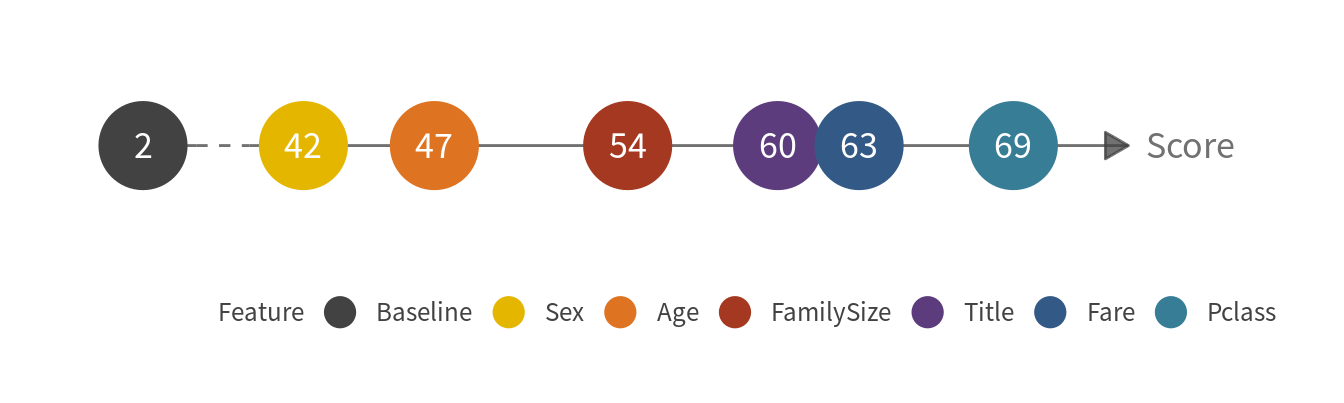
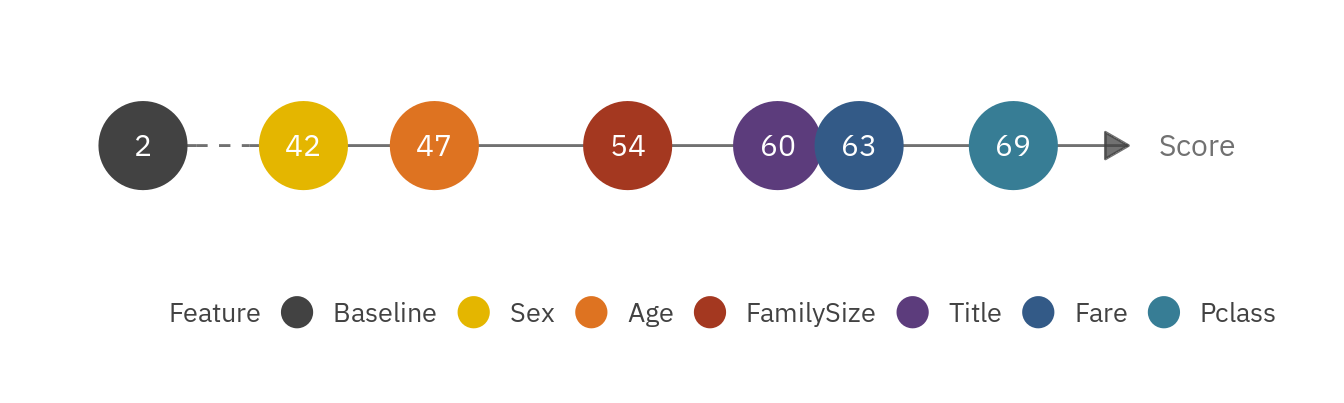
Edit font type

diff --git a/index.html b/index.html
@@ -359,7 +359,7 @@ income_plot &lt;-  ggplot(income_set, aes(x=SurvivalRate,
                          y = 0.02,
                          family = def_font,
                          color = ltxt_color,
-                         size = 5,
+                         size = 4.5,
                          hjust = 1) +
                # Y Axis
                 theme(
@@ -538,7 +538,7 @@ age_plot &lt;- ggplot(age_pdata, aes(x=AgeMin,
                             aes(x = AgeMin + 8.5, label = paste(AgeMin, &quot;Years Old&quot;)),
                             y = max(age_pdata$SurviveL),
                             color = ltxt_color,
-                            size = 5,
+                            size = 4,
                             family = def_font)
   
 age_plot</code></pre>
@@ -625,7 +625,7 @@ company_plot &lt;- ggplot(company_stack, aes(x= Size, y= Value)) +
                 geom_text(data=unique(company_stack %&gt;% select(Size, SurvivalRate)),
                           aes(x=Size, y=SurvivalRate+0.03, label=paste0(round(SurvivalRate*100),&quot;%&quot;)),
                           color=txt_color,
-                          size=5,
+                          size=4,
                           family = def_font)
   
 company_plot </code></pre>
@@ -777,7 +777,7 @@ cabinNumber_plot &lt;- ggplot(cabinNumber_set, aes(x = SurvivalRate,
                               y = 0.02,
                               family = def_font,
                               color = ltxt_color,
-                              size = 5,
+                              size = 4.5,
                               hjust = 1) +
                     theme(
                       # Y-Axis
@@ -851,8 +851,8 @@ pwalk(
 )
 
 map</code></pre>
-<div id="htmlwidget-c16769c1e4ed0e5b6b1a" style="width:100%;height:268.8px;" class="leaflet html-widget"></div>
-<script type="application/json" data-for="htmlwidget-c16769c1e4ed0e5b6b1a">{"x":{"options":{"crs":{"crsClass":"L.CRS.EPSG3857","code":null,"proj4def":null,"projectedBounds":null,"options":{}}},"calls":[{"method":"addProviderTiles","args":["CartoDB.Positron",null,null,{"errorTileUrl":"","noWrap":false,"zIndex":null,"unloadInvisibleTiles":null,"updateWhenIdle":null,"detectRetina":false,"reuseTiles":false}]},{"method":"addAwesomeMarkers","args":[41.7666636,-50.2333324,{"icon":"ship","markerColor":"gray","iconColor":"#FFFFFF","spin":false,"squareMarker":false,"iconRotate":0,"font":"monospace","prefix":"fa"},null,null,{"clickable":true,"draggable":false,"keyboard":true,"title":"","alt":"","zIndexOffset":0,"opacity":1,"riseOnHover":false,"riseOffset":250},"Titanic Crash Site",null,null,null,null,null,null]},{"method":"addCircleMarkers","args":[49.645009,-1.62444,10,null,null,{"lineCap":null,"lineJoin":null,"clickable":true,"pointerEvents":null,"className":"","stroke":true,"color":"#89942F","weight":5,"opacity":0.8,"fill":true,"fillColor":"#89942F","fillOpacity":0.5,"dashArray":null},null,null,"Cherbough<br>Survival Likelihood: 55%",null,null,null,null]},{"method":"addCircleMarkers","args":[51.851,-8.2967,10,null,null,{"lineCap":null,"lineJoin":null,"clickable":true,"pointerEvents":null,"className":"","stroke":true,"color":"#A43820","weight":5,"opacity":0.8,"fill":true,"fillColor":"#A43820","fillOpacity":0.5,"dashArray":null},null,null,"Queenstown<br>Survival Likelihood: 39%",null,null,null,null]},{"method":"addCircleMarkers","args":[50.9038684,-1.4176118,15,null,null,{"lineCap":null,"lineJoin":null,"clickable":true,"pointerEvents":null,"className":"","stroke":true,"color":"#A43820","weight":5,"opacity":0.8,"fill":true,"fillColor":"#A43820","fillOpacity":0.5,"dashArray":null},null,null,"Southampton<br>Survival Likelihood: 34%",null,null,null,null]}],"limits":{"lat":[41.7666636,51.851],"lng":[-50.2333324,-1.4176118]}},"evals":[],"jsHooks":[]}</script>
+<div id="htmlwidget-79cacfd01ae976ea9a9f" style="width:100%;height:268.8px;" class="leaflet html-widget"></div>
+<script type="application/json" data-for="htmlwidget-79cacfd01ae976ea9a9f">{"x":{"options":{"crs":{"crsClass":"L.CRS.EPSG3857","code":null,"proj4def":null,"projectedBounds":null,"options":{}}},"calls":[{"method":"addProviderTiles","args":["CartoDB.Positron",null,null,{"errorTileUrl":"","noWrap":false,"zIndex":null,"unloadInvisibleTiles":null,"updateWhenIdle":null,"detectRetina":false,"reuseTiles":false}]},{"method":"addAwesomeMarkers","args":[41.7666636,-50.2333324,{"icon":"ship","markerColor":"gray","iconColor":"#FFFFFF","spin":false,"squareMarker":false,"iconRotate":0,"font":"monospace","prefix":"fa"},null,null,{"clickable":true,"draggable":false,"keyboard":true,"title":"","alt":"","zIndexOffset":0,"opacity":1,"riseOnHover":false,"riseOffset":250},"Titanic Crash Site",null,null,null,null,null,null]},{"method":"addCircleMarkers","args":[49.645009,-1.62444,10,null,null,{"lineCap":null,"lineJoin":null,"clickable":true,"pointerEvents":null,"className":"","stroke":true,"color":"#89942F","weight":5,"opacity":0.8,"fill":true,"fillColor":"#89942F","fillOpacity":0.5,"dashArray":null},null,null,"Cherbough<br>Survival Likelihood: 55%",null,null,null,null]},{"method":"addCircleMarkers","args":[51.851,-8.2967,10,null,null,{"lineCap":null,"lineJoin":null,"clickable":true,"pointerEvents":null,"className":"","stroke":true,"color":"#A43820","weight":5,"opacity":0.8,"fill":true,"fillColor":"#A43820","fillOpacity":0.5,"dashArray":null},null,null,"Queenstown<br>Survival Likelihood: 39%",null,null,null,null]},{"method":"addCircleMarkers","args":[50.9038684,-1.4176118,15,null,null,{"lineCap":null,"lineJoin":null,"clickable":true,"pointerEvents":null,"className":"","stroke":true,"color":"#A43820","weight":5,"opacity":0.8,"fill":true,"fillColor":"#A43820","fillOpacity":0.5,"dashArray":null},null,null,"Southampton<br>Survival Likelihood: 34%",null,null,null,null]}],"limits":{"lat":[41.7666636,51.851],"lng":[-50.2333324,-1.4176118]}},"evals":[],"jsHooks":[]}</script>
 <p><br> The map above indicates that those who embarked at Cherbough are more likely to survive. This is a puzzling observation as where the passenger embarks should not have an impact of what is happening on the Titanic.</p>
 <pre class="r"><code># Assessing the correlation between Embarkation and Passenger Class
 
@@ -896,7 +896,7 @@ embark_pclass_plot &lt;- ggplot(embark_pclass, aes(x=as.factor(Embarked),
                                     y = PctEmbarked - 0.05),
                                 data = embark_pclass %&gt;% filter(Pclass == 1),
                                 color = bg_color,
-                                family = def_font, size = 5)
+                                family = def_font, size = 4)
 
 embark_pclass_plot</code></pre>
 <p><img src="index_files/figure-html/unnamed-chunk-13-1.png" width="672" style="display: block; margin: auto;" /></p>
@@ -1294,7 +1294,7 @@ z_plot &lt;- ggplot(data = z_scores, aes(x = sapply(z_scores$Zscore, function (x
                     y = 0),
                     family = def_font,
                     color = ltxt_color,
-                    size = 5,
+                    size = 4,
                     hjust = 1) +
           theme(
             # Y-Axis
@@ -1307,7 +1307,7 @@ z_plot &lt;- ggplot(data = z_scores, aes(x = sapply(z_scores$Zscore, function (x
           geom_text(aes(label=paste0(round(Zscore,0))),
                     family = def_font,
                     color = &quot;#FFFFFF&quot;,
-                    size = 5,
+                    size = 4,
                     hjust = 0.5)
   
 z_plot</code></pre>

diff --git a/README.md b/README.md
@@ -210,7 +210,7 @@ income_plot <-  ggplot(income_set, aes(x=SurvivalRate,
                          y = 0.02,
                          family = def_font,
                          color = ltxt_color,
-                         size = 5,
+                         size = 4.5,
                          hjust = 1) +
                # Y Axis
                 theme(
@@ -435,7 +435,7 @@ age_plot <- ggplot(age_pdata, aes(x=AgeMin,
                             aes(x = AgeMin + 8.5, label = paste(AgeMin, "Years Old")),
                             y = max(age_pdata$SurviveL),
                             color = ltxt_color,
-                            size = 5,
+                            size = 4,
                             family = def_font)
   
 age_plot
@@ -543,7 +543,7 @@ company_plot <- ggplot(company_stack, aes(x= Size, y= Value)) +
                 geom_text(data=unique(company_stack %>% select(Size, SurvivalRate)),
                           aes(x=Size, y=SurvivalRate+0.03, label=paste0(round(SurvivalRate*100),"%")),
                           color=txt_color,
-                          size=5,
+                          size=4,
                           family = def_font)
   
 company_plot 
@@ -746,7 +746,7 @@ cabinNumber_plot <- ggplot(cabinNumber_set, aes(x = SurvivalRate,
                               y = 0.02,
                               family = def_font,
                               color = ltxt_color,
-                              size = 5,
+                              size = 4.5,
                               hjust = 1) +
                     theme(
                       # Y-Axis
@@ -836,11 +836,11 @@ map
 
 <!--html_preserve-->
 
-<div id="htmlwidget-f0284abbf11768ab3d70" class="leaflet html-widget" style="width:100%;height:268.8px;">
+<div id="htmlwidget-3c6490fbc91435aa95ad" class="leaflet html-widget" style="width:100%;height:268.8px;">
 
 </div>
 
-<script type="application/json" data-for="htmlwidget-f0284abbf11768ab3d70">{"x":{"options":{"crs":{"crsClass":"L.CRS.EPSG3857","code":null,"proj4def":null,"projectedBounds":null,"options":{}}},"calls":[{"method":"addProviderTiles","args":["CartoDB.Positron",null,null,{"errorTileUrl":"","noWrap":false,"zIndex":null,"unloadInvisibleTiles":null,"updateWhenIdle":null,"detectRetina":false,"reuseTiles":false}]},{"method":"addAwesomeMarkers","args":[41.7666636,-50.2333324,{"icon":"ship","markerColor":"gray","iconColor":"#FFFFFF","spin":false,"squareMarker":false,"iconRotate":0,"font":"monospace","prefix":"fa"},null,null,{"clickable":true,"draggable":false,"keyboard":true,"title":"","alt":"","zIndexOffset":0,"opacity":1,"riseOnHover":false,"riseOffset":250},"Titanic Crash Site",null,null,null,null,null,null]},{"method":"addCircleMarkers","args":[49.645009,-1.62444,10,null,null,{"lineCap":null,"lineJoin":null,"clickable":true,"pointerEvents":null,"className":"","stroke":true,"color":"#89942F","weight":5,"opacity":0.8,"fill":true,"fillColor":"#89942F","fillOpacity":0.5,"dashArray":null},null,null,"Cherbough<br>Survival Likelihood: 55%",null,null,null,null]},{"method":"addCircleMarkers","args":[51.851,-8.2967,10,null,null,{"lineCap":null,"lineJoin":null,"clickable":true,"pointerEvents":null,"className":"","stroke":true,"color":"#A43820","weight":5,"opacity":0.8,"fill":true,"fillColor":"#A43820","fillOpacity":0.5,"dashArray":null},null,null,"Queenstown<br>Survival Likelihood: 39%",null,null,null,null]},{"method":"addCircleMarkers","args":[50.9038684,-1.4176118,15,null,null,{"lineCap":null,"lineJoin":null,"clickable":true,"pointerEvents":null,"className":"","stroke":true,"color":"#A43820","weight":5,"opacity":0.8,"fill":true,"fillColor":"#A43820","fillOpacity":0.5,"dashArray":null},null,null,"Southampton<br>Survival Likelihood: 34%",null,null,null,null]}],"limits":{"lat":[41.7666636,51.851],"lng":[-50.2333324,-1.4176118]}},"evals":[],"jsHooks":[]}</script>
+<script type="application/json" data-for="htmlwidget-3c6490fbc91435aa95ad">{"x":{"options":{"crs":{"crsClass":"L.CRS.EPSG3857","code":null,"proj4def":null,"projectedBounds":null,"options":{}}},"calls":[{"method":"addProviderTiles","args":["CartoDB.Positron",null,null,{"errorTileUrl":"","noWrap":false,"zIndex":null,"unloadInvisibleTiles":null,"updateWhenIdle":null,"detectRetina":false,"reuseTiles":false}]},{"method":"addAwesomeMarkers","args":[41.7666636,-50.2333324,{"icon":"ship","markerColor":"gray","iconColor":"#FFFFFF","spin":false,"squareMarker":false,"iconRotate":0,"font":"monospace","prefix":"fa"},null,null,{"clickable":true,"draggable":false,"keyboard":true,"title":"","alt":"","zIndexOffset":0,"opacity":1,"riseOnHover":false,"riseOffset":250},"Titanic Crash Site",null,null,null,null,null,null]},{"method":"addCircleMarkers","args":[49.645009,-1.62444,10,null,null,{"lineCap":null,"lineJoin":null,"clickable":true,"pointerEvents":null,"className":"","stroke":true,"color":"#89942F","weight":5,"opacity":0.8,"fill":true,"fillColor":"#89942F","fillOpacity":0.5,"dashArray":null},null,null,"Cherbough<br>Survival Likelihood: 55%",null,null,null,null]},{"method":"addCircleMarkers","args":[51.851,-8.2967,10,null,null,{"lineCap":null,"lineJoin":null,"clickable":true,"pointerEvents":null,"className":"","stroke":true,"color":"#A43820","weight":5,"opacity":0.8,"fill":true,"fillColor":"#A43820","fillOpacity":0.5,"dashArray":null},null,null,"Queenstown<br>Survival Likelihood: 39%",null,null,null,null]},{"method":"addCircleMarkers","args":[50.9038684,-1.4176118,15,null,null,{"lineCap":null,"lineJoin":null,"clickable":true,"pointerEvents":null,"className":"","stroke":true,"color":"#A43820","weight":5,"opacity":0.8,"fill":true,"fillColor":"#A43820","fillOpacity":0.5,"dashArray":null},null,null,"Southampton<br>Survival Likelihood: 34%",null,null,null,null]}],"limits":{"lat":[41.7666636,51.851],"lng":[-50.2333324,-1.4176118]}},"evals":[],"jsHooks":[]}</script>
 
 <!--/html_preserve-->
 
@@ -892,7 +892,7 @@ embark_pclass_plot <- ggplot(embark_pclass, aes(x=as.factor(Embarked),
                                     y = PctEmbarked - 0.05),
                                 data = embark_pclass %>% filter(Pclass == 1),
                                 color = bg_color,
-                                family = def_font, size = 5)
+                                family = def_font, size = 4)
 
 embark_pclass_plot
 ```
@@ -1279,7 +1279,7 @@ z_plot <- ggplot(data = z_scores, aes(x = sapply(z_scores$Zscore, function (x) {
                     y = 0),
                     family = def_font,
                     color = ltxt_color,
-                    size = 5,
+                    size = 4,
                     hjust = 1) +
           theme(
             # Y-Axis
@@ -1292,7 +1292,7 @@ z_plot <- ggplot(data = z_scores, aes(x = sapply(z_scores$Zscore, function (x) {
           geom_text(aes(label=paste0(round(Zscore,0))),
                     family = def_font,
                     color = "#FFFFFF",
-                    size = 5,
+                    size = 4,
                     hjust = 0.5)
   
 z_plot
